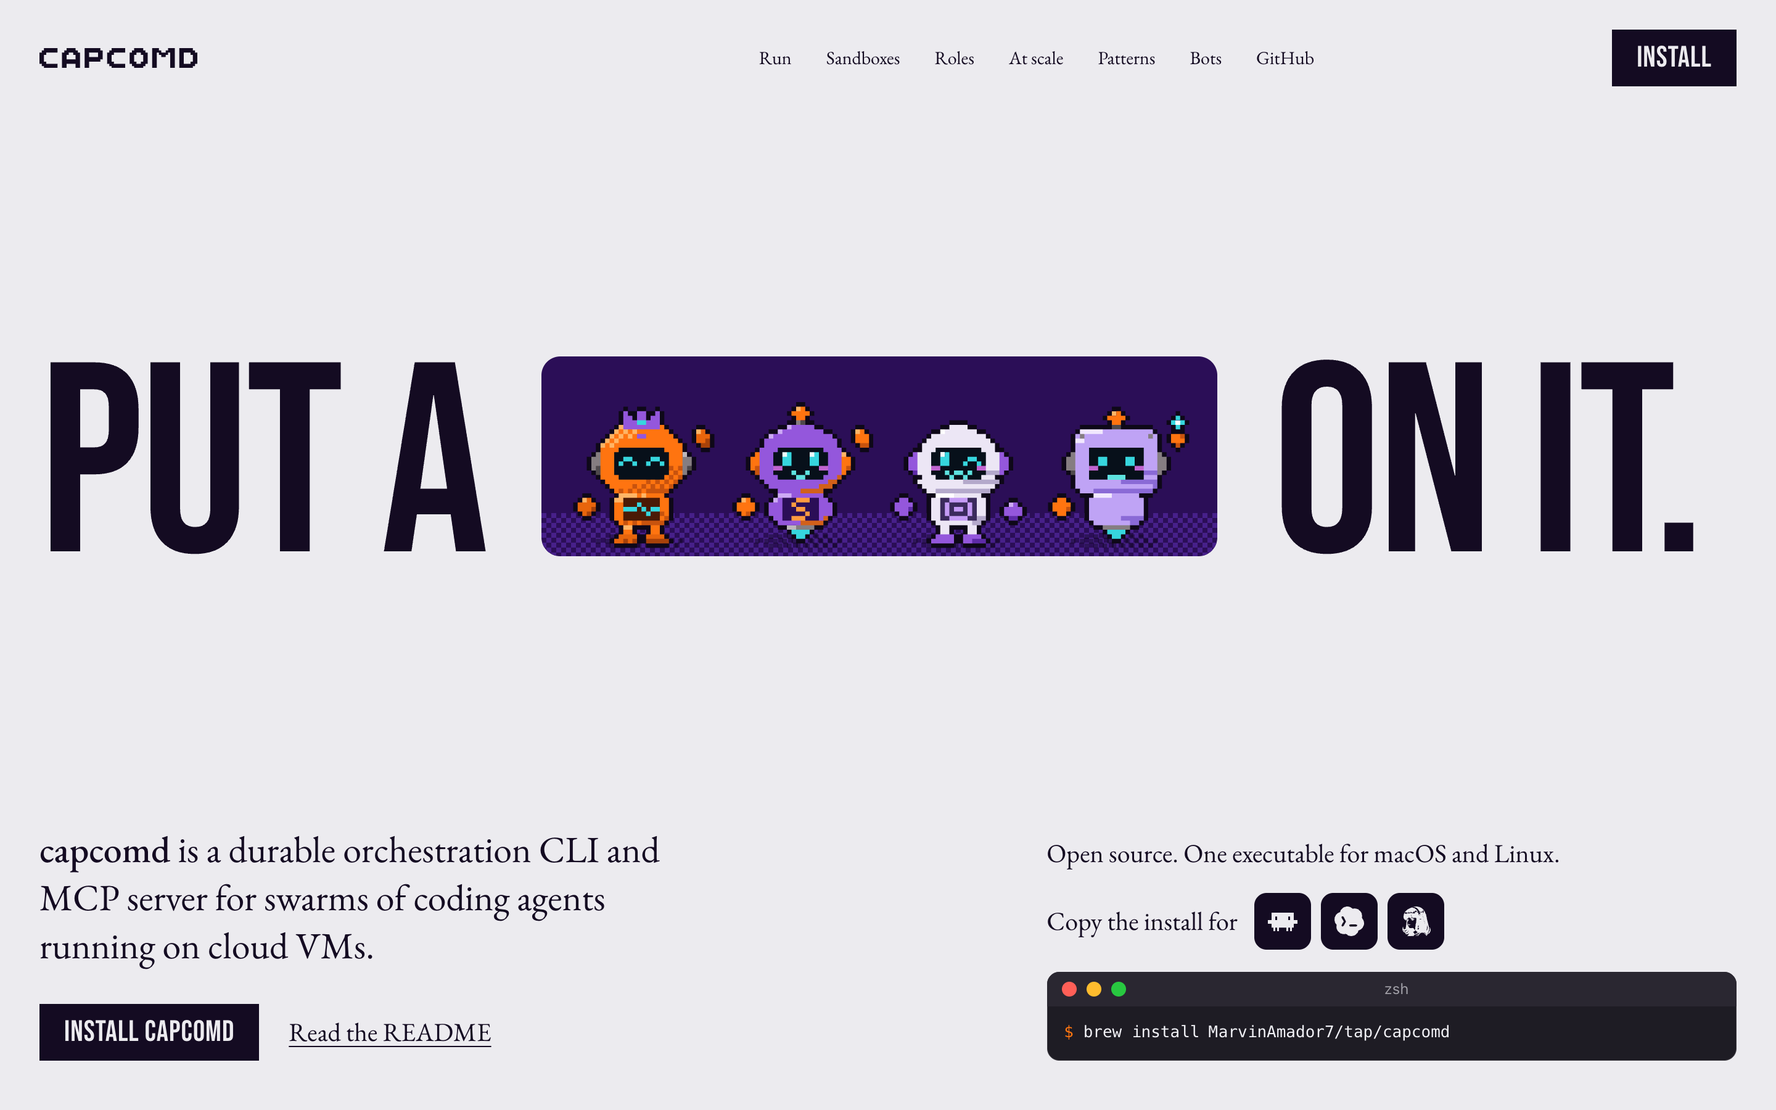
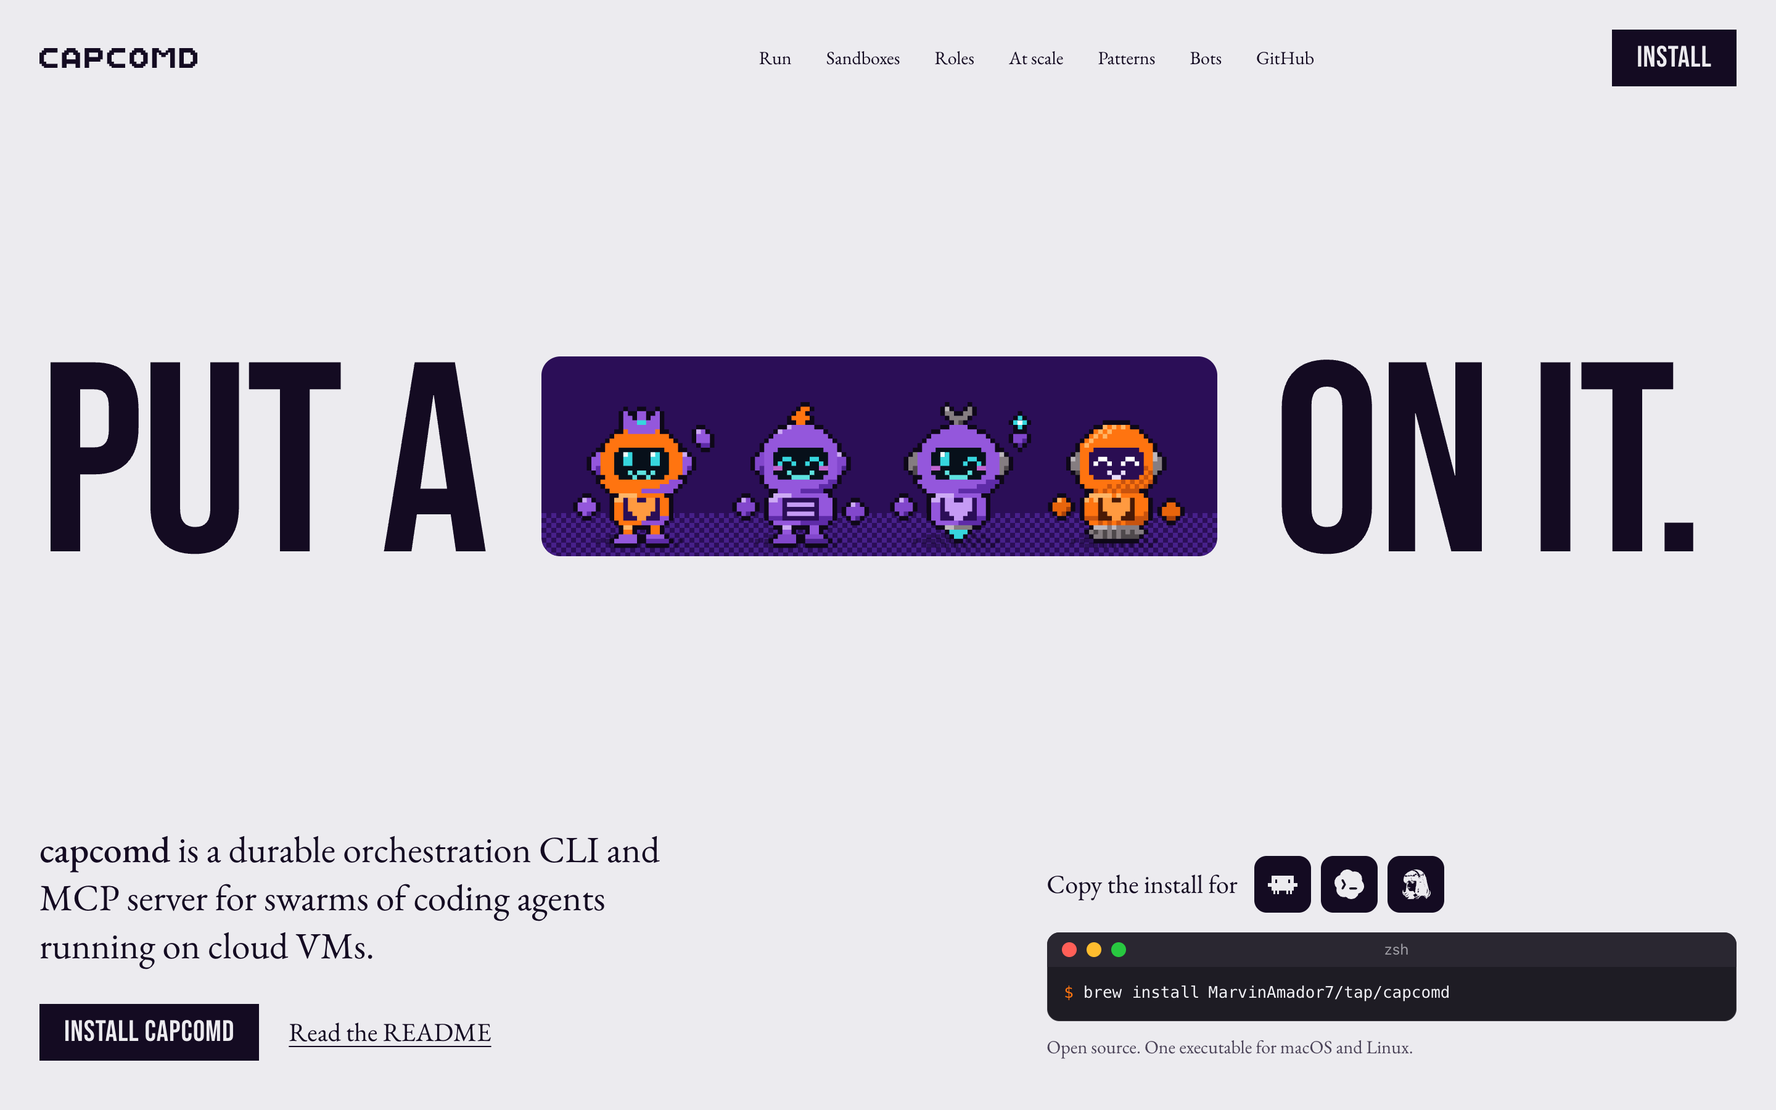
site: "Supported sandboxes" replaces the boxd/Docker table; hero fine print under brew
- Sandboxes: the comparison table is gone. In its place is "Supported
  sandboxes": cloud VMs (boxd, with its mark) and containers on your machine
  through the Docker provider (Docker Desktop, OrbStack, Colima, Podman, each
  with its mark), plus one line on what a container lacks.
- Hero: "Open source. One executable for macOS and Linux." now sits under the
  brew command in smaller, muted type. The agent install buttons lead the
  block.

Changed region(s): [[0.5625, 0.7467, 1.0, 0.9644], [0.3125, 0.3422, 0.6875, 0.4978]]

diff --git a/site/lib/runtime-icons.ts b/site/lib/runtime-icons.ts
@@ -1,0 +1,5 @@
+// Marks for the sandboxes the Docker provider runs on, from simple-icons 16.36.0 (CC0; the marks belong to their owners).
+export const RUNTIME_PATHS = {
+  docker: "M13.983 11.078h2.119a.186.186 0 00.186-.185V9.006a.186.186 0 00-.186-.186h-2.119a.185.185 0 00-.185.185v1.888c0 .102.083.185.185.185m-2.954-5.43h2.118a.186.186 0 00.186-.186V3.574a.186.186 0 00-.186-.185h-2.118a.185.185 0 00-.185.185v1.888c0 .102.082.185.185.185m0 2.716h2.118a.187.187 0 00.186-.186V6.29a.186.186 0 00-.186-.185h-2.118a.185.185 0 00-.185.185v1.887c0 .102.082.185.185.186m-2.93 0h2.12a.186.186 0 00.184-.186V6.29a.185.185 0 00-.185-.185H8.1a.185.185 0 00-.185.185v1.887c0 .102.083.185.185.186m-2.964 0h2.119a.186.186 0 00.185-.186V6.29a.185.185 0 00-.185-.185H5.136a.186.186 0 00-.186.185v1.887c0 .102.084.185.186.186m5.893 2.715h2.118a.186.186 0 00.186-.185V9.006a.186.186 0 00-.186-.186h-2.118a.185.185 0 00-.185.185v1.888c0 .102.082.185.185.185m-2.93 0h2.12a.185.185 0 00.184-.185V9.006a.185.185 0 00-.184-.186h-2.12a.185.185 0 00-.184.185v1.888c0 .102.083.185.185.185m-2.964 0h2.119a.185.185 0 00.185-.185V9.006a.185.185 0 00-.184-.186h-2.12a.186.186 0 00-.186.186v1.887c0 .102.084.185.186.185m-2.92 0h2.12a.185.185 0 00.184-.185V9.006a.185.185 0 00-.184-.186h-2.12a.185.185 0 00-.184.185v1.888c0 .102.082.185.185.185M23.763 9.89c-.065-.051-.672-.51-1.954-.51-.338.001-.676.03-1.01.087-.248-1.7-1.653-2.53-1.716-2.566l-.344-.199-.226.327c-.284.438-.49.922-.612 1.43-.23.97-.09 1.882.403 2.661-.595.332-1.55.413-1.744.42H.751a.751.751 0 00-.75.748 11.376 11.376 0 00.692 4.062c.545 1.428 1.355 2.48 2.41 3.124 1.18.723 3.1 1.137 5.275 1.137.983.003 1.963-.086 2.93-.266a12.248 12.248 0 003.823-1.389c.98-.567 1.86-1.288 2.61-2.136 1.252-1.418 1.998-2.997 2.553-4.4h.221c1.372 0 2.215-.549 2.68-1.009.309-.293.55-.65.707-1.046l.098-.288Z",
+  podman: "M17.2.275L6.75.308a.259.259 0 0 0-.203.098L.056 8.602a.259.259 0 0 0-.05.219l2.356 10.194a.26.26 0 0 0 .14.174l9.43 4.511a.258.258 0 0 0 .224-.002l9.401-4.566a.259.259 0 0 0 .141-.175L23.993 8.75a.258.258 0 0 0-.051-.22L17.403.374A.259.259 0 0 0 17.2.275zm-.123.517l6.385 7.966-2.242 9.964-9.177 4.457-9.205-4.402L.54 8.827 6.875.824zM11.46 2.857c-.933 0-1.84.1-2.426.332h-.002c-1.554.569-2.725 2.105-3.074 3.952v.004c-.309 1.463-.392 2.703-.556 3.824-.07.481-.159.94-.283 1.387-.628.497-1.079 1.263-1.244 2.138v.004c-.116.547-.181 1.04-.237 1.5h-.644v.518h8.891c-.061.464-.122.996-.181 1.42H7.596v.517h7.939c-.242-.078-.486-.218-.756-.502h-.697l-.85.488-.232-.396.162-.092h-1.069c.113-.776.17-1.601.373-2.564v-.004c.22-1.164.96-2.112 1.895-2.453l.004-.002h.002c.318-.127.928-.205 1.543-.205.613 0 1.244.075 1.622.207.935.341 1.676 1.29 1.895 2.453v.004c.204.963.26 1.788.373 2.564h-.742l.162.092-.233.396-.85-.488h-.75c-.219.25-.474.412-.747.502h4.392v-.518h-.842c-.103-.743-.181-1.67-.382-2.623v-.002a4.14 4.14 0 0 0-.264-.863h1.863v-.517h-2.13a3.488 3.488 0 0 0-.8-.906h1.8v-.518H17.95a8.862 8.862 0 0 1-.193-.775h1.484v-.518h-1.576c-.013-.081-.027-.161-.039-.244-.164-1.12-.246-2.36-.555-3.824v-.004c-.348-1.848-1.52-3.383-3.075-3.952l-.002-.002h-.002c-.65-.227-1.596-.33-2.531-.33zm0 .386c.904 0 1.833.11 2.404.309h.002c1.4.514 2.5 1.934 2.826 3.666v.003c.303 1.436.385 2.66.552 3.805.076.515.173 1.013.315 1.505-.449-.135-1.05-.197-1.648-.197-.12 0-.236.003-.352.008l-1.863-1.865a2.17 2.17 0 0 0 .11-.246l2.13 1.23.13-.224-2.185-1.262c.016-.069.027-.14.036-.21l2.302.616.068-.248-2.354-.63c-.02-1.153-1.008-2.078-2.208-2.078-1.205 0-2.196.931-2.206 2.091l-2.303.617.066.25 2.252-.605c.01.076.024.151.041.224L7.436 11.24l.129.222 2.087-1.207c.034.089.074.176.12.258l-1.266 1.266a6.959 6.959 0 0 0-1.045-.075c-.603 0-1.186.064-1.578.22a2.668 2.668 0 0 0-.285.124c.076-.335.137-.675.187-1.021.168-1.144.248-2.37.551-3.805l.002-.001v-.002c.326-1.733 1.426-3.153 2.828-3.666h.002l.004-.002c.488-.194 1.381-.307 2.287-.307zM8.473 5.194a1.295 1.295 0 0 0-.965.502l-.117.153.306.236.12-.152a.923.923 0 0 1 .673-.352.92.92 0 0 1 .67.262l.139.134.271-.275-.136-.137a1.293 1.293 0 0 0-.961-.37zm6.39 0a1.289 1.289 0 0 0-.96.371l-.138.137.274.275.136-.134a.923.923 0 0 1 .672-.262.923.923 0 0 1 .674.352l.119.152.307-.236-.12-.153c-.23-.3-.587-.486-.964-.502zM8.53 6.708c-.642 0-1.164.538-1.164 1.19 0 .65.522 1.187 1.164 1.187.643 0 1.164-.536 1.164-1.188 0-.651-.521-1.19-1.164-1.19zm6.273 0c-.643 0-1.162.538-1.162 1.19 0 .65.52 1.187 1.162 1.187.643 0 1.164-.536 1.164-1.188 0-.651-.521-1.19-1.164-1.19zm-6.273.387c.428 0 .776.355.776.802 0 .447-.348.8-.776.8a.785.785 0 0 1-.775-.8c0-.035.002-.07.006-.103.07.191.248.318.445.318a.487.487 0 0 0 .477-.496.49.49 0 0 0-.383-.486.759.759 0 0 1 .23-.035zm6.273 0c.428 0 .777.355.777.802 0 .447-.349.8-.777.8a.785.785 0 0 1-.77-.9c.072.19.248.315.444.315a.486.486 0 0 0 .479-.496.491.491 0 0 0-.383-.484.755.755 0 0 1 .23-.037zm-3.08.716c1.012 0 1.819.775 1.819 1.723 0 .947-.807 1.722-1.819 1.722s-1.82-.775-1.82-1.722c0-.948.808-1.723 1.82-1.723zm-.002.528c-.142 0-.258.043-.355.076a.804.804 0 0 1-.232.054c-.107 0-.2.047-.268.127a.568.568 0 0 0-.104.207c-.04.134-.062.268-.08.315a.276.276 0 0 0 .032.25c.033.056.071.1.117.146.09.092.206.183.322.268.12.088.237.166.326.224l-.008.09c-.043.036-.14.102-.324.178a.533.533 0 0 1-.299.025.43.43 0 0 1-.236-.172c.015-.138.044-.293.068-.449l-.376-.095c-.05.238-.067.43-.094.64l.037.059c.143.224.318.344.506.392a.908.908 0 0 0 .52-.033 1.57 1.57 0 0 0 .444-.242c.088.067.244.174.446.242a.908.908 0 0 0 .52.033.868.868 0 0 0 .507-.392l.037-.059a6.292 6.292 0 0 0-.096-.637l-.377.092c.032.148.051.32.07.451a.434.434 0 0 1-.237.17.533.533 0 0 1-.3-.025c-.178-.068-.272-.14-.325-.178l-.006-.084c.09-.058.209-.137.336-.23.115-.085.231-.176.322-.268a.72.72 0 0 0 .117-.146.273.273 0 0 0 .031-.25c-.018-.047-.039-.181-.08-.315a.564.564 0 0 0-.103-.207.343.343 0 0 0-.268-.127.815.815 0 0 1-.234-.054c-.097-.033-.212-.076-.354-.076zm.002.386c.057 0 .134.024.23.057.09.03.208.07.337.076.04.102.06.237.09.338a.361.361 0 0 1-.041.045 2.66 2.66 0 0 1-.276.228c-.165.122-.271.188-.342.233a5.287 5.287 0 0 1-.34-.233 2.557 2.557 0 0 1-.275-.228.34.34 0 0 1-.04-.047c.035-.119.046-.234.089-.34.08.012.246-.042.336-.072a.837.837 0 0 1 .232-.057zm-3.234.61a.635.635 0 0 0-.611.517l1.084-.289a.614.614 0 0 0-.473-.228zm6.336 0a.61.61 0 0 0-.436.187c.352.096.69.184 1.033.275a.632.632 0 0 0-.597-.462zm-.623.607c-.007.035-.002.07-.002.103l.921.532a.648.648 0 0 0 .276-.313l-1.195-.322zm-5.086.05l-1.18.315c.078.15.207.264.362.316l.797-.46c.018-.059.015-.12.021-.17zm4.441.714l1.656 1.658a4.19 4.19 0 0 0-.826.146l-.95-1.647a2.51 2.51 0 0 0 .12-.157zm-3.646.03c.04.055.083.118.129.169l-.658 1.134a2.656 2.656 0 0 0-.276-.119l-.002-.002a3.3 3.3 0 0 0-.292-.082zm3.338.317l.892 1.547c-.623.251-1.149.725-1.523 1.33h-1.652c-.262-.75-.741-1.38-1.358-1.764l.623-1.082c.394.347.919.559 1.492.559a2.25 2.25 0 0 0 1.526-.59zM7.46 12.09c.574 0 1.167.073 1.518.195.867.319 1.555 1.203 1.76 2.285l.001.002v.002c.109.513.173.98.227 1.424H9.86a.386.386 0 0 0-.494 0H9.11a1.351 1.351 0 0 0-.078-.418.799.799 0 0 0 .569.238c.45 0 .814-.375.814-.828a.824.824 0 0 0-.814-.828.822.822 0 0 0-.791 1.016 1.495 1.495 0 0 0-1.18-.559c-.798 0-1.46.611-1.48 1.38h-.342a.386.386 0 0 0-.494 0H4.028c.054-.445.116-.912.224-1.425l.002-.002v-.002c.205-1.084.894-1.97 1.764-2.287h.002l.004-.002c.295-.117.863-.191 1.437-.19zm-1.91 1.105a.898.898 0 0 0-.67.348l-.119.154.307.237.119-.155a.525.525 0 0 1 .379-.197.52.52 0 0 1 .377.147l.138.136.272-.275-.137-.137a.895.895 0 0 0-.666-.258zm4.094 0a.9.9 0 0 0-.668.258l-.137.137.273.275.137-.136a.522.522 0 0 1 .377-.147.525.525 0 0 1 .379.197l.119.155.307-.237-.12-.154a.894.894 0 0 0-.667-.348zm4.222.735a.947.947 0 0 0-.707.365l-.117.154.306.237.12-.155a.568.568 0 0 1 .413-.213.571.571 0 0 1 .414.159l.14.136.27-.275-.138-.137a.942.942 0 0 0-.701-.271zm4.374 0a.942.942 0 0 0-.7.271l-.14.137.272.275.139-.136a.571.571 0 0 1 .414-.159.568.568 0 0 1 .414.213l.119.155.306-.237-.117-.154a.947.947 0 0 0-.707-.365zm-12.65.232a.824.824 0 0 0-.815.828c0 .453.365.828.814.828.45 0 .815-.375.815-.828a.824.824 0 0 0-.815-.828zm5.518.285h1.242a4.137 4.137 0 0 0-.263.864v.002c-.05.237-.092.464-.127.685h-.602a16.77 16.77 0 0 0-.236-1.5l-.002-.002c-.003-.016-.009-.032-.012-.049zm-5.519.102a.43.43 0 0 1 .426.441.43.43 0 0 1-.426.442c-.22 0-.4-.171-.422-.397a.298.298 0 0 0 .215.092.31.31 0 0 0 .305-.316.317.317 0 0 0-.129-.258c.01-.001.02-.004.031-.004zm4.014 0c.235 0 .427.193.427.441a.433.433 0 0 1-.427.442.427.427 0 0 1-.422-.405.3.3 0 0 0 .256.145.31.31 0 0 0 .304-.317.314.314 0 0 0-.207-.298c.023-.004.045-.008.069-.008zm4.304.414a.865.865 0 0 0-.856.87c0 .478.382.874.856.874a.868.868 0 0 0 .857-.873.867.867 0 0 0-.857-.871zm4.292 0a.867.867 0 0 0-.814 1.14 1.597 1.597 0 0 0-1.295-.652c-.846 0-1.546.65-1.568 1.463l-1.525.408.066.248 1.477-.394c.004.028.009.06.015.087l-1.418.817.131.222 1.367-.789c.235.552.801.94 1.455.94.66 0 1.233-.397 1.463-.957l1.398.806.13-.222-1.45-.836c.005-.025.008-.053.012-.078l1.511.404.067-.248-1.563-.418a1.438 1.438 0 0 0-.107-.5c.157.186.39.303.648.303a.867.867 0 0 0 .856-.873.865.865 0 0 0-.856-.871zm-10.567.043c.598 0 1.071.444 1.092.992h-.41c.007-.01.016-.02.023-.033a.24.24 0 0 0 .025-.22c-.005-.016-.021-.102-.05-.196a.416.416 0 0 0-.078-.156.282.282 0 0 0-.225-.108.499.499 0 0 1-.129-.031c-.062-.021-.142-.05-.248-.05-.106 0-.188.029-.25.05a.49.49 0 0 1-.127.031.29.29 0 0 0-.225.108.424.424 0 0 0-.08.156c-.029.094-.043.18-.048.195a.242.242 0 0 0 .023.22c.008.014.017.023.025.034h-.41c.02-.548.494-.992 1.092-.992zm6.275.344c.259 0 .47.211.47.484a.477.477 0 0 1-.47.486.472.472 0 0 1-.467-.453.322.322 0 0 0 .246.115c.18 0 .326-.15.326-.338a.34.34 0 0 0-.156-.289c.017-.002.033-.005.05-.005zm4.292 0c.26 0 .469.211.469.484 0 .272-.21.486-.469.486a.477.477 0 0 1-.47-.486c0-.016.002-.031.004-.047a.33.33 0 0 0 .312.24c.18 0 .326-.15.326-.338a.338.338 0 0 0-.256-.332.475.475 0 0 1 .084-.007zm-10.567.24c.021 0 .063.01.125.031.086.03.117.039.186.049.012.041.022.088.033.129a1.475 1.475 0 0 1-.168.138c-.038.028-.064.045-.088.061h-.176c-.024-.016-.052-.033-.09-.06a1.602 1.602 0 0 1-.168-.14l.034-.128c.107-.014.146-.04.185-.049a.504.504 0 0 1 .127-.031zm8.458.25c.661 0 1.184.502 1.184 1.113 0 .156-.035.304-.096.44l-.002-.024-.022-.156a2.443 2.443 0 0 0-.04-.24l-.377.093.044.274a.24.24 0 0 1-.115.074.299.299 0 0 1-.168-.014c-.087-.03-.132-.063-.18-.094.057-.037.13-.084.198-.134.08-.06.16-.123.226-.19a.542.542 0 0 0 .092-.111.245.245 0 0 0 .026-.225c-.008-.019-.022-.112-.053-.21a.444.444 0 0 0-.084-.163.286.286 0 0 0-.23-.107.566.566 0 0 1-.14-.037c-.065-.022-.152-.055-.263-.055-.11 0-.195.032-.262.055a.575.575 0 0 1-.14.037.294.294 0 0 0-.23.107.436.436 0 0 0-.083.162c-.03.1-.045.192-.052.211a.246.246 0 0 0 .025.225.534.534 0 0 0 .09.111c.066.067.146.13.226.19.068.05.138.095.194.132a.57.57 0 0 1-.18.096.305.305 0 0 1-.17.014.237.237 0 0 1-.111-.076c.008-.09.026-.177.04-.272l-.376-.094c-.032.146-.045.286-.063.409a1.052 1.052 0 0 1-.09-.428c0-.611.521-1.113 1.182-1.113zm0 .623c.026 0 .074.01.14.033.066.025.169.052.206.055l.035.156c-.04.04-.112.1-.184.152-.095.07-.14.095-.197.131-.056-.036-.1-.061-.195-.13a1.236 1.236 0 0 1-.184-.157l.035-.152a1.04 1.04 0 0 0 .206-.055.523.523 0 0 1 .138-.033zm-2.22.353a.43.43 0 0 0-.385.272l.656-.176a.416.416 0 0 0-.271-.096zm4.333 0a.414.414 0 0 0-.22.07l.603.16a.426.426 0 0 0-.383-.23zm-4.054.567l-.607.162a.436.436 0 0 0 .125.113zm3.925.002l.407.234a.443.443 0 0 0 .087-.102zm-1.986.234c.067.047.165.108.285.148a.68.68 0 0 0 .389.024.57.57 0 0 0 .232-.121 1.201 1.201 0 0 1-.904.394c-.356 0-.67-.145-.885-.375a.58.58 0 0 0 .207.102c.144.036.28.014.391-.024.12-.04.218-.1.285-.148zm-9.524 1.61v.517h6.214v-.518zm3.619 1.292v.517H15.3v-.517z",
+} as const;

diff --git a/site/components/Sandboxes.tsx b/site/components/Sandboxes.tsx
@@ -1,15 +1,8 @@
 import type { CSSProperties, ReactNode } from "react";
 import { AgentSuffix, Bot } from "./crew";
 import { delay } from "./marks";
+import { RUNTIME_PATHS } from "@/lib/runtime-icons";
 
-const ROWS: Array<[string, string, string]> = [
-  ["Runs", "Cloud VMs", "Containers on this machine: Docker Desktop, OrbStack, Colima, Podman"],
-  ["Isolation", "A VM per agent, and a separate throwaway VM for checks", "A container: the agent can't see your files; a kernel exploit would reach the host"],
-  ["Snapshots", "Yes", "Images"],
-  ["Secrets", "Host-bound: the agent sees a placeholder", "An API key reaches the agent's environment; plan logins unaffected"],
-  ["Egress allowlist", "Yes", "No: a profile that sets egress is refused"],
-  ["In the menu bar app", "Cloud", "Local"],
-];
 
 /** boxd's mark, as boxd.sh draws it in its header (one path; coloured by the text around it). */
 const BoxdMark = ({ className }: { className?: string }) => (
@@ -86,12 +79,6 @@ function Bay() {
   );
 }
 
-/** A table value; a plain yes or no gets a mark beside the word. */
-const Val = ({ v }: { v: string }) => {
-  const yes = /^Yes\b/.test(v), no = /^No\b/.test(v);
-  if (!yes && !no) return <>{v}</>;
-  return <span className={`val val--${yes ? "yes" : "no"}`}><svg viewBox="0 0 16 16" aria-hidden="true">{yes ? <path d="M3.5 8.5 6.5 11.5 12.5 4.5" /> : <path d="M4.5 4.5l7 7M11.5 4.5l-7 7" />}</svg>{v}</span>;
-};
 
 export function Sandboxes() {
   return (
@@ -102,14 +89,27 @@ export function Sandboxes() {
         <p data-reveal style={delay(60)}>Inside its VM an agent is unrestricted by default: every tool, open network. A profile narrows its tools, sandbox and egress. Writing a provider is documented in <code>docs/providers.md</code>.</p>
       </div>
       <Bay />
-      <div className="spec" data-reveal style={delay(120)}>
-        <div className="scroll" tabIndex={0} role="region" aria-label="boxd and Docker compared">
-          <table>
-            <thead><tr><th scope="col"><span className="sr">Property</span></th><th scope="col"><span className="spec__prov"><BoxdMark className="spec__mark" />boxd</span></th><th scope="col">Docker</th></tr></thead>
-            <tbody>{ROWS.map(([k, a, b]) => <tr key={k}><th scope="row">{k}</th><td><Val v={a} /></td><td><Val v={b} /></td></tr>)}</tbody>
-          </table>
+      <div className="runs" data-reveal style={delay(120)}>
+        <h3 className="runs__title">Supported sandboxes</h3>
+        <div className="runs__grid">
+          <div className="runs__group">
+            <p className="runs__kind">Cloud VMs</p>
+            <ul className="runs__list">
+              <li className="runs__item runs__item--wide"><span className="runs__logo"><BoxdMark className="runs__boxd" /></span><span><b>boxd</b><small>A VM per agent and a throwaway VM for checks; host-bound secrets, an egress allowlist, snapshots.</small></span></li>
+            </ul>
+          </div>
+          <div className="runs__group">
+            <p className="runs__kind">Containers on your machine, through the Docker provider</p>
+            <ul className="runs__list">
+              <li className="runs__item"><span className="runs__logo"><svg viewBox="0 0 24 24" aria-hidden="true"><path fill="#2496ED" d={RUNTIME_PATHS.docker} /></svg></span><b>Docker Desktop</b></li>
+              <li className="runs__item"><span className="runs__logo"><img src="/logos/orbstack.png" alt="" width={40} height={40} /></span><b>OrbStack</b></li>
+              <li className="runs__item"><span className="runs__logo"><img src="/logos/colima.png" alt="" width={40} height={40} /></span><b>Colima</b></li>
+              <li className="runs__item"><span className="runs__logo"><svg viewBox="0 0 24 24" aria-hidden="true"><path fill="#892CA0" d={RUNTIME_PATHS.podman} /></svg></span><b>Podman</b></li>
+            </ul>
+            <p className="runs__note">A container, not a VM: no host-bound secrets and no egress allowlist.</p>
+          </div>
         </div>
-        <p className="spec__note">The app learns about providers from the daemon, so a new one needs no change there.</p>
+        <p className="runs__note">The app learns about providers from the daemon, so a new one needs no change there.</p>
       </div>
       <div className="facts">
         <div data-reveal><h3>Credentials</h3><p>VM snapshots are scrubbed of secrets. An agent&apos;s VM holds only its own login; agents never hold push credentials, and a checks VM holds none.</p></div>

diff --git a/site/app/globals.css b/site/app/globals.css
@@ -939,20 +939,10 @@ html:not(.js) .stage__title { display: block; }
     .bay__bar { padding: 8px 10px; font-size: 12px; }
   }
 }
-@layer components {
-  .val { display: inline-flex; gap: 8px; align-items: flex-start; }
-  .val svg { flex: none; width: 18px; height: 18px; margin-top: 3px; fill: none; stroke-width: 2.2; stroke-linecap: round; stroke-linejoin: round; }
-  .val--yes svg { stroke: var(--color-plum); }
-  .val--no svg { stroke: var(--color-link); }
-}
-@layer components {
-  .spec__prov { display: inline-flex; align-items: center; gap: 10px; }
-  .spec__mark { width: 0.72em; height: 0.72em; fill: currentColor; margin-top: -0.08em; }
-}
 
 /* The hero's install buttons: one per coding agent, each copies the README's step 1 for it. */
 @layer components {
-  .agents { position: relative; margin: 16px 0 18px; }
+  .agents { position: relative; margin: 0 0 16px; }
   .agents.is-waiting { visibility: hidden; }
   .agents__row { display: flex; flex-wrap: wrap; align-items: center; gap: 8px; }
   .agents__lbl { margin-right: 6px; font-size: var(--text-body); }
@@ -971,3 +961,31 @@ html:not(.js) .stage__title { display: block; }
   .agents__status span code { display: inline; margin: 0; }
   @media (prefers-reduced-motion: reduce) { .agents__btn, .agents__btn::after { transition: none; } }
 }
+
+/* Sandboxes: what agents run on, by provider. */
+@layer components {
+  .runs { margin-top: 72px; }
+  .runs__title { margin: 0 0 20px; font: 400 34px/1 var(--font-display); text-transform: uppercase; }
+  .runs__grid { display: grid; grid-template-columns: minmax(0, 5fr) minmax(0, 7fr); gap: 24px; }
+  .runs__group { padding: 20px; background: var(--color-surface); border-radius: 14px; }
+  .runs__kind { margin: 0 0 14px; font: 500 15px/1.3 var(--font-ui); color: var(--color-muted); }
+  .runs__list { list-style: none; margin: 0; padding: 0; display: grid; grid-template-columns: repeat(4, minmax(0, 1fr)); gap: 12px; }
+  .runs__item { display: grid; justify-items: center; gap: 10px; padding: 16px 8px 14px; background: var(--color-page); border-radius: 10px; text-align: center; }
+  .runs__item b { font: 600 15px/1.2 var(--font-ui); }
+  .runs__item--wide { grid-column: 1 / -1; grid-template-columns: auto 1fr; justify-items: start; align-items: center; gap: 16px; padding: 16px; text-align: left; }
+  .runs__item--wide small { display: block; margin-top: 4px; font: 400 15px/1.4 var(--font-ui); color: #3B3446; }
+  .runs__logo { display: grid; place-items: center; width: 48px; height: 48px; }
+  .runs__logo svg, .runs__logo img { width: 40px; height: 40px; }
+  .runs__boxd { fill: var(--color-ink); }
+  .runs__note { margin: 14px 0 0; font-size: var(--text-small); color: var(--color-muted); }
+  .runs__group .runs__note { margin-top: 12px; }
+  @media (max-width: 1100px) { .runs__grid { grid-template-columns: 1fr; } }
+  @media (max-width: 760px) {
+    .runs { margin-top: 48px; }
+    .runs__title { font-size: 28px; }
+    .runs__group { padding: 14px; }
+    .runs__list { grid-template-columns: repeat(2, minmax(0, 1fr)); }
+  }
+}
+
+.hero__fine { margin: 10px 0 0; font-size: var(--text-small); color: var(--color-muted); }

diff --git a/site/components/Hero.tsx b/site/components/Hero.tsx
@@ -25,9 +25,9 @@ export function Hero() {
           <a className="text" href={SITE.repo}>Read the README</a>
         </div>
         <div className="hero__note" data-load style={delay(620)}>
-          <p className="m-0">Open source. One executable for macOS and Linux.</p>
           <AgentInstall />
           <Win title="zsh" label="Install with Homebrew"><code tabIndex={0}>brew install MarvinAmador7/tap/capcomd</code></Win>
+          <p className="hero__fine">Open source. One executable for macOS and Linux.</p>
         </div>
       </div>
     </header>

diff --git a/site/README.md b/site/README.md
@@ -33,6 +33,7 @@ Stack: Next.js 16.4.3, React 19.3.1, Tailwind CSS 4.3.3 (`@tailwindcss/postcss`)
 | `components/` | One component per section. Server components by default, so the copy is in the static HTML and works without JS. The client parts are only `crew.tsx` (the crew, redrawn per visit and on "Draw another", and the typed goal), `RunAccordion.tsx` (the stages, an APG accordion of disclosure buttons) and `Reveals.tsx` (scroll entrances). |
 | `lib/site.ts` | The site's origin (`https://capcomd.vercel.app`, one value), the title, the description, and the licence line. |
 | `lib/agent-icons.ts` | The Claude Code, Codex and Hermes Agent marks on the hero's install buttons (from `@lobehub/icons-static-svg` 1.101.0, MIT; the marks belong to their owners). |
+| `lib/runtime-icons.ts`, `public/logos/` | The Docker and Podman marks (simple-icons 16.36.0, CC0), OrbStack's app icon (orbstack.dev) and Colima's llama (cropped from the colima repository's logo) for "Supported sandboxes". The marks belong to their owners. |
 | `lib/crew.ts`, `lib/marks.ts` | The crew's roles and default seed (`run_7e9410`, what the static HTML is drawn with), the wordmark, the menu bar mark. |
 | `lib/vendor/bot-avatar.js` | packages/bot-avatar, bundled as one ESM file by `bun run vendor` (with hand-written types beside it). |
 | `public/fonts/OFL-*.txt` | The fonts' licences, linked from the footer. |
